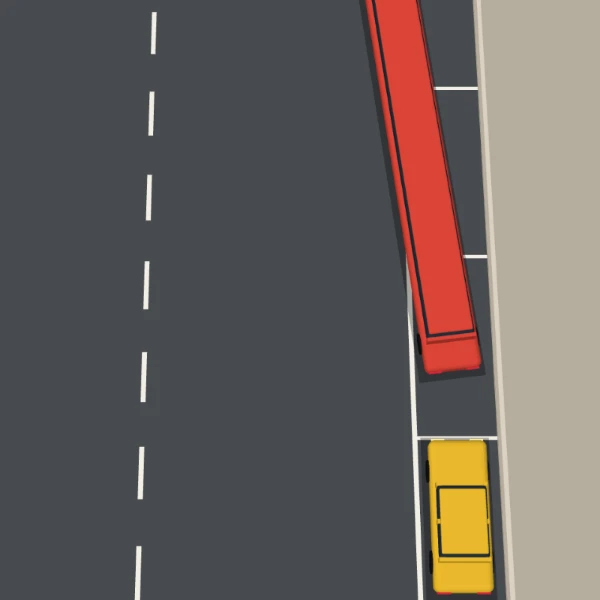
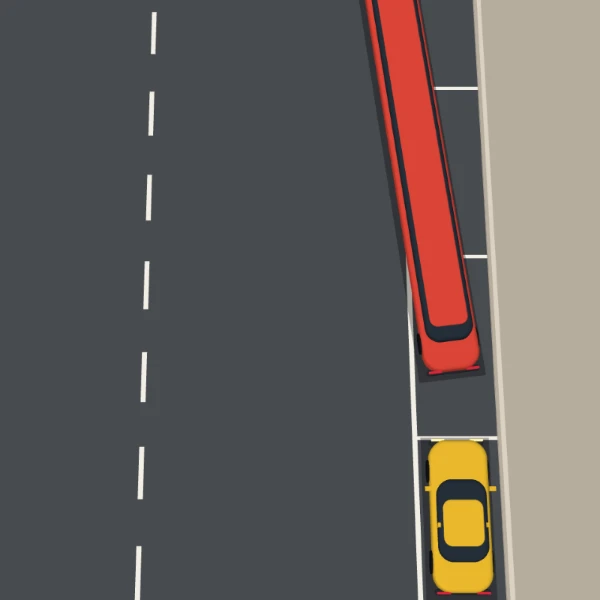
ガチロング縦列駐車：車を上から見て車らしい形にする（角の丸い車体、前後の窓が見える屋根、ドアミラー、バンパー）
Claude-Session: https://claude.ai/code/session_01BCX4xPnXA1SxLVH7FDh1mA

diff --git a/games/gachilong/park3d.js b/games/gachilong/park3d.js
@@ -40,16 +40,17 @@
     parent.add(m);
     return m;
   }
-  /* 角を丸く面取りした箱。底面の角丸を押し出し、上下の縁にも丸みを付ける */
-  function rbox(self, parent, w, h, d, x, y, z, color, r) {
+  /* 角を丸く面取りした箱。上から見た角を pr で丸め、上下の縁にも r の丸みを付ける */
+  function rbox(self, parent, w, h, d, x, y, z, color, r, pr) {
     var T = global.THREE;
     r = Math.min(r, w / 2 - 0.01, d / 2 - 0.01, h / 2 - 0.01);
     var hw = w / 2 - r, hd = d / 2 - r, sh = new T.Shape();
-    sh.moveTo(-hw, -hd - 0.0001);
-    sh.absarc(hw, -hd, 0.0001, -Math.PI / 2, 0, false);
-    sh.absarc(hw, hd, 0.0001, 0, Math.PI / 2, false);
-    sh.absarc(-hw, hd, 0.0001, Math.PI / 2, Math.PI, false);
-    sh.absarc(-hw, -hd, 0.0001, Math.PI, Math.PI * 1.5, false);
+    var q = Math.max(0.0001, Math.min(pr || 0, hw - 0.01, hd - 0.01));
+    sh.moveTo(-hw + q, -hd);
+    sh.absarc(hw - q, -hd + q, q, -Math.PI / 2, 0, false);
+    sh.absarc(hw - q, hd - q, q, 0, Math.PI / 2, false);
+    sh.absarc(-hw + q, hd - q, q, Math.PI / 2, Math.PI, false);
+    sh.absarc(-hw + q, -hd + q, q, Math.PI, Math.PI * 1.5, false);
     var geo = new T.ExtrudeGeometry(sh, { depth: Math.max(0.001, h - 2 * r), bevelEnabled: true, bevelThickness: r, bevelSize: r, bevelSegments: 4, curveSegments: 6 });
     geo.rotateX(-Math.PI / 2);
     geo.translate(0, -(h - 2 * r) / 2, 0);
@@ -73,16 +74,21 @@
     var g = new T.Group(), body = new T.Group();
     g.add(body);
     flat(self, g, carW + 0.35, len + 0.35, 0, 0.02, 0, 0x000000, { opacity: 0.3, basic: true });
-    rbox(self, body, carW, 0.66, len, 0, 0.55, 0, color, 0.2);
-    var cabin = Math.max(1.2, len - 2.3), cz = 0.25;
-    rbox(self, body, carW * 0.84, 0.56, cabin, 0, 1.1, cz, 0x26313d, 0.16);
-    rbox(self, body, carW * 0.78, 0.12, cabin - 0.3, 0, 1.38, cz, color, 0.05);
-    if (!joined) {
-      var n = Math.max(1, Math.round(cabin / 1.35));
-      for (var i = 1; i < n; i++) box(self, body, carW * 0.86, 0.5, 0.14, 0, 1.09, cz - cabin / 2 + cabin * i / n, color);
-    }
-    box(self, body, carW * 0.86, 0.5, 0.12, 0, 1.09, cz - cabin / 2, color);
-    box(self, body, carW * 0.86, 0.5, 0.12, 0, 1.09, cz + cabin / 2, color);
+    /* 車体。上から見ても角が丸い */
+    rbox(self, body, carW, 0.62, len, 0, 0.52, 0, color, 0.14, 0.42);
+    /* 窓（ガラス）。ボンネットとトランクの長さは決まっていて、伸びるのは窓のところ */
+    var hood = 1.25, trunk = 0.85, cabin = Math.max(1.4, len - hood - trunk), cz = (hood - trunk) / 2;
+    rbox(self, body, carW * 0.84, 0.5, cabin, 0, 1.05, cz, 0x26313d, 0.14, 0.32);
+    /* 屋根。前の窓と後ろの窓、横の窓が見えるよう一回り小さく */
+    var wind = 0.62, back = 0.42;
+    rbox(self, body, carW * 0.68, 0.1, cabin - wind - back, 0, 1.33, cz + (wind - back) / 2, color, 0.04, 0.22);
+    if (!joined) box(self, body, carW * 0.85, 0.46, 0.14, 0, 1.05, cz + 0.15, color);
+    /* ドアミラーとバンパー */
+    [-1, 1].forEach(function (s) {
+      box(self, body, 0.2, 0.1, 0.14, s * (carW / 2 + 0.08), 0.92, cz - cabin / 2 + 0.25, color);
+    });
+    rbox(self, body, carW * 0.94, 0.18, 0.18, 0, 0.32, -len / 2 + 0.04, 0x2a2d33, 0.06, 0.08);
+    rbox(self, body, carW * 0.94, 0.18, 0.18, 0, 0.32, len / 2 - 0.04, 0x2a2d33, 0.06, 0.08);
     [-1, 1].forEach(function (s) {
       box(self, body, 0.4, 0.14, 0.06, s * (carW / 2 - 0.3), 0.62, -len / 2 - 0.01, 0xfff3b0, { basic: true });
       box(self, body, 0.4, 0.14, 0.06, s * (carW / 2 - 0.3), 0.62, len / 2 + 0.01, 0xd8263a, { basic: true });

diff --git a/shisaku-i87mixcr/park3d.js b/shisaku-i87mixcr/park3d.js
@@ -40,16 +40,17 @@
     parent.add(m);
     return m;
   }
-  /* 角を丸く面取りした箱。底面の角丸を押し出し、上下の縁にも丸みを付ける */
-  function rbox(self, parent, w, h, d, x, y, z, color, r) {
+  /* 角を丸く面取りした箱。上から見た角を pr で丸め、上下の縁にも r の丸みを付ける */
+  function rbox(self, parent, w, h, d, x, y, z, color, r, pr) {
     var T = global.THREE;
     r = Math.min(r, w / 2 - 0.01, d / 2 - 0.01, h / 2 - 0.01);
     var hw = w / 2 - r, hd = d / 2 - r, sh = new T.Shape();
-    sh.moveTo(-hw, -hd - 0.0001);
-    sh.absarc(hw, -hd, 0.0001, -Math.PI / 2, 0, false);
-    sh.absarc(hw, hd, 0.0001, 0, Math.PI / 2, false);
-    sh.absarc(-hw, hd, 0.0001, Math.PI / 2, Math.PI, false);
-    sh.absarc(-hw, -hd, 0.0001, Math.PI, Math.PI * 1.5, false);
+    var q = Math.max(0.0001, Math.min(pr || 0, hw - 0.01, hd - 0.01));
+    sh.moveTo(-hw + q, -hd);
+    sh.absarc(hw - q, -hd + q, q, -Math.PI / 2, 0, false);
+    sh.absarc(hw - q, hd - q, q, 0, Math.PI / 2, false);
+    sh.absarc(-hw + q, hd - q, q, Math.PI / 2, Math.PI, false);
+    sh.absarc(-hw + q, -hd + q, q, Math.PI, Math.PI * 1.5, false);
     var geo = new T.ExtrudeGeometry(sh, { depth: Math.max(0.001, h - 2 * r), bevelEnabled: true, bevelThickness: r, bevelSize: r, bevelSegments: 4, curveSegments: 6 });
     geo.rotateX(-Math.PI / 2);
     geo.translate(0, -(h - 2 * r) / 2, 0);
@@ -73,16 +74,21 @@
     var g = new T.Group(), body = new T.Group();
     g.add(body);
     flat(self, g, carW + 0.35, len + 0.35, 0, 0.02, 0, 0x000000, { opacity: 0.3, basic: true });
-    rbox(self, body, carW, 0.66, len, 0, 0.55, 0, color, 0.2);
-    var cabin = Math.max(1.2, len - 2.3), cz = 0.25;
-    rbox(self, body, carW * 0.84, 0.56, cabin, 0, 1.1, cz, 0x26313d, 0.16);
-    rbox(self, body, carW * 0.78, 0.12, cabin - 0.3, 0, 1.38, cz, color, 0.05);
-    if (!joined) {
-      var n = Math.max(1, Math.round(cabin / 1.35));
-      for (var i = 1; i < n; i++) box(self, body, carW * 0.86, 0.5, 0.14, 0, 1.09, cz - cabin / 2 + cabin * i / n, color);
-    }
-    box(self, body, carW * 0.86, 0.5, 0.12, 0, 1.09, cz - cabin / 2, color);
-    box(self, body, carW * 0.86, 0.5, 0.12, 0, 1.09, cz + cabin / 2, color);
+    /* 車体。上から見ても角が丸い */
+    rbox(self, body, carW, 0.62, len, 0, 0.52, 0, color, 0.14, 0.42);
+    /* 窓（ガラス）。ボンネットとトランクの長さは決まっていて、伸びるのは窓のところ */
+    var hood = 1.25, trunk = 0.85, cabin = Math.max(1.4, len - hood - trunk), cz = (hood - trunk) / 2;
+    rbox(self, body, carW * 0.84, 0.5, cabin, 0, 1.05, cz, 0x26313d, 0.14, 0.32);
+    /* 屋根。前の窓と後ろの窓、横の窓が見えるよう一回り小さく */
+    var wind = 0.62, back = 0.42;
+    rbox(self, body, carW * 0.68, 0.1, cabin - wind - back, 0, 1.33, cz + (wind - back) / 2, color, 0.04, 0.22);
+    if (!joined) box(self, body, carW * 0.85, 0.46, 0.14, 0, 1.05, cz + 0.15, color);
+    /* ドアミラーとバンパー */
+    [-1, 1].forEach(function (s) {
+      box(self, body, 0.2, 0.1, 0.14, s * (carW / 2 + 0.08), 0.92, cz - cabin / 2 + 0.25, color);
+    });
+    rbox(self, body, carW * 0.94, 0.18, 0.18, 0, 0.32, -len / 2 + 0.04, 0x2a2d33, 0.06, 0.08);
+    rbox(self, body, carW * 0.94, 0.18, 0.18, 0, 0.32, len / 2 - 0.04, 0x2a2d33, 0.06, 0.08);
     [-1, 1].forEach(function (s) {
       box(self, body, 0.4, 0.14, 0.06, s * (carW / 2 - 0.3), 0.62, -len / 2 - 0.01, 0xfff3b0, { basic: true });
       box(self, body, 0.4, 0.14, 0.06, s * (carW / 2 - 0.3), 0.62, len / 2 + 0.01, 0xd8263a, { basic: true });

diff --git a/shisaku-i87mixcr/index.html b/shisaku-i87mixcr/index.html
@@ -2,7 +2,7 @@
 <html lang="ja">
 <head>
 <meta name="robots" content="noindex,nofollow">
-<meta name="preview-version" content="gachilong-1790981768392">
+<meta name="preview-version" content="gachilong-1790982062442">
 <meta charset="UTF-8">
 <meta name="viewport" content="width=device-width, initial-scale=1, maximum-scale=1, user-scalable=no">
 <title>【プレビュー】ガチロング縦列駐車</title>
@@ -32,15 +32,15 @@
   <button id="start" type="button">START</button>
   <button id="share-button" type="button" aria-label="Xでシェア" hidden></button>
 </div></div>
-<script src="../games/start.js?v=gachilong-1790981768392"></script>
-<script src="../games/view.js?v=gachilong-1790981768392"></script>
-<script src="../games/audio.js?v=gachilong-1790981768392"></script>
-<script src="../games/share.js?v=gachilong-1790981768392"></script>
-<script src="../games/result-actions.js?v=gachilong-1790981768392"></script>
-<script src="../games/action-icons.js?v=gachilong-1790981768392"></script>
-<script src="../games/pad.js?v=gachilong-1790981768392"></script>   <!-- ジョイパッドと、絵の外のタップ -->
-<script src="../games/random-bowling/vendor/three.min.js?v=gachilong-1790981768392"></script>
-<script src="./park3d.js?v=gachilong-1790981768392"></script>
+<script src="../games/start.js?v=gachilong-1790982062442"></script>
+<script src="../games/view.js?v=gachilong-1790982062442"></script>
+<script src="../games/audio.js?v=gachilong-1790982062442"></script>
+<script src="../games/share.js?v=gachilong-1790982062442"></script>
+<script src="../games/result-actions.js?v=gachilong-1790982062442"></script>
+<script src="../games/action-icons.js?v=gachilong-1790982062442"></script>
+<script src="../games/pad.js?v=gachilong-1790982062442"></script>   <!-- ジョイパッドと、絵の外のタップ -->
+<script src="../games/random-bowling/vendor/three.min.js?v=gachilong-1790982062442"></script>
+<script src="./park3d.js?v=gachilong-1790982062442"></script>
 <script>
 /* ガチロング縦列駐車
 
@@ -772,11 +772,11 @@ if (document.head && /^(localhost|127\.0\.0\.1)$/.test(location.hostname) && !/[
 /* 制作中の固定リンクでは、F9の録画パネルを使えるようにする */
 if (document.head && !/[?&]recorder-cli=1(?:&|$)/.test(location.search)) {
   var recorderScript = document.createElement("script");
-  recorderScript.src = /^(localhost|127\.0\.0\.1)$/.test(location.hostname) ? "../games/_tools/recorder-ui.js?v=gachilong-1790981768392" : "./recorder-ui.js?v=gachilong-1790981768392";
+  recorderScript.src = /^(localhost|127\.0\.0\.1)$/.test(location.hostname) ? "../games/_tools/recorder-ui.js?v=gachilong-1790982062442" : "./recorder-ui.js?v=gachilong-1790982062442";
   document.head.appendChild(recorderScript);
 }
 </script>
-<script src="./auto-reload.js?v=gachilong-1790981768392"></script>
-<script src="./preview-header.js?v=gachilong-1790981768392"></script>
+<script src="./auto-reload.js?v=gachilong-1790982062442"></script>
+<script src="./preview-header.js?v=gachilong-1790982062442"></script>
 </body>
 </html>
